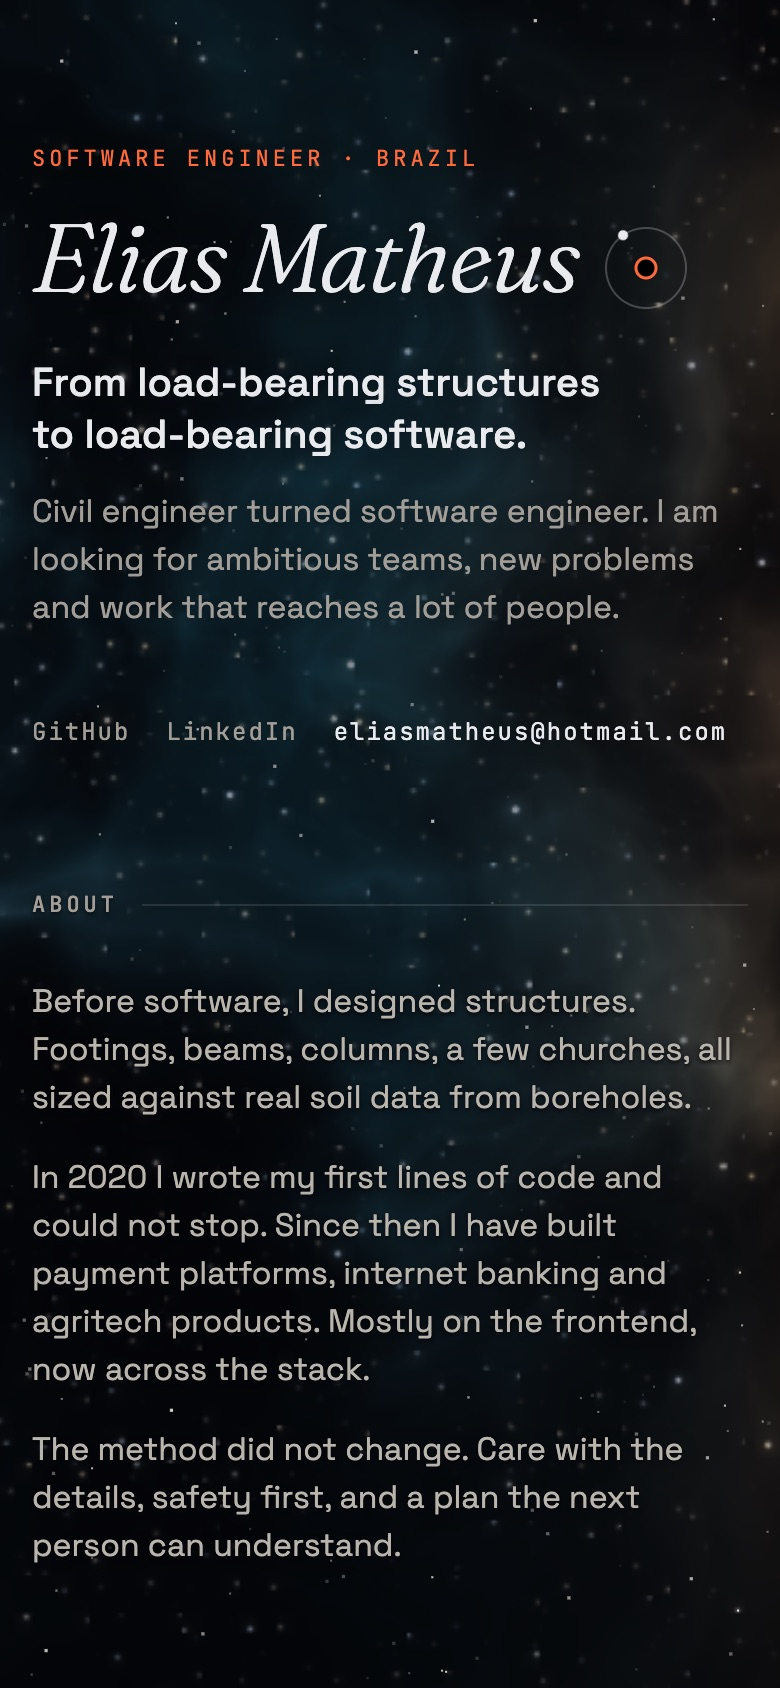
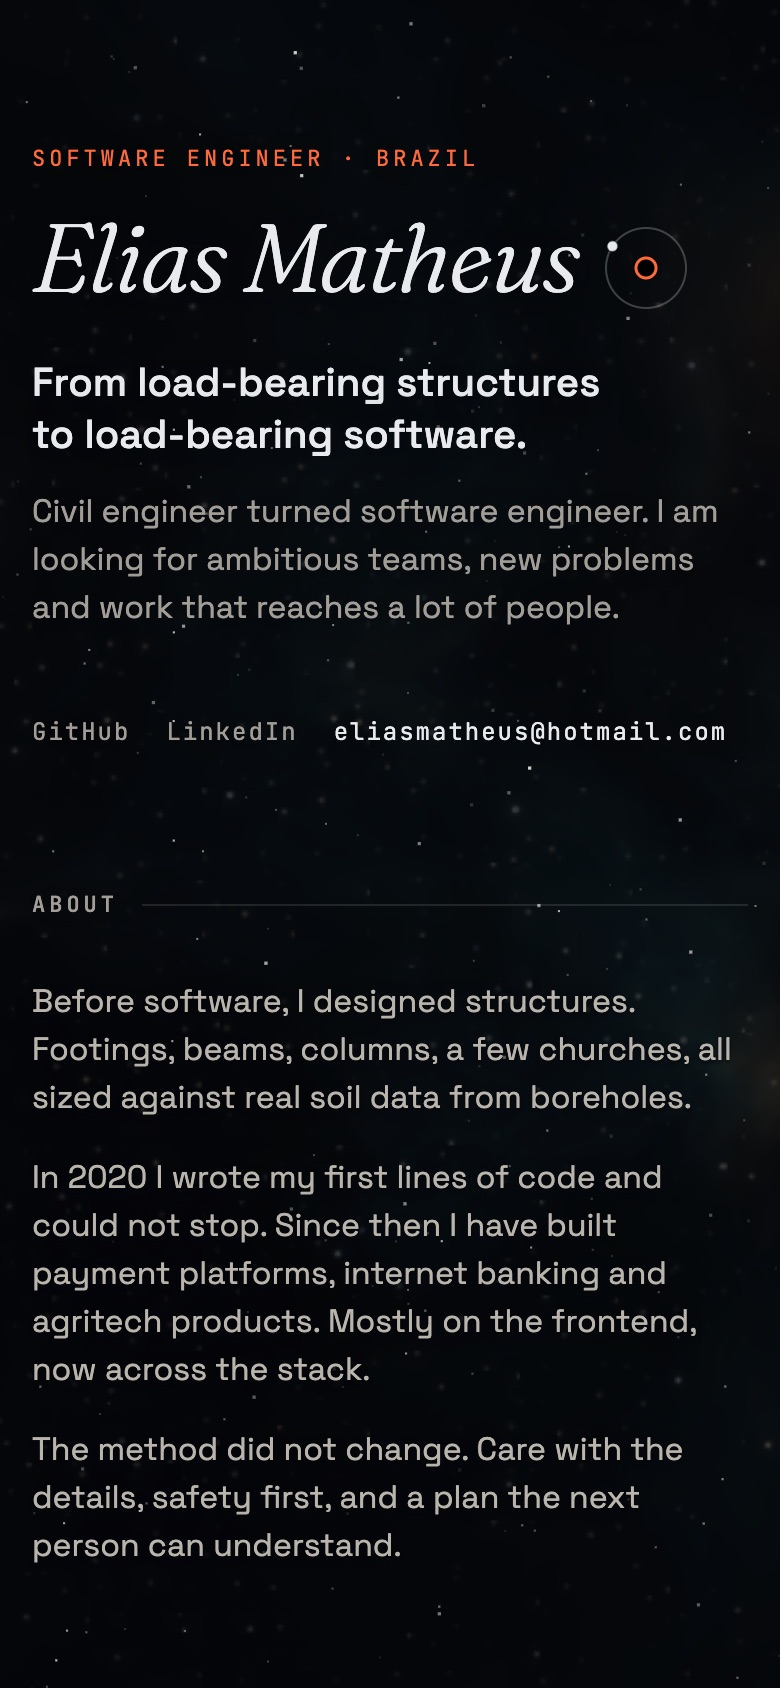
Landing: pointer light over a darker sky, old palette in Dune tones
Keeps the new nebula shapes and brings back what worked in the first
version: the sky rests dark and a light follows the mouse, fading over
2.5 s. The light is a masked, full-strength copy of the same painting.
The palette returns to black teal, muted teal, spice amber and sand.
On touch, a faint light wanders on its own.

diff --git a/src/landing/sky.ts b/src/landing/sky.ts
@@ -1,13 +1,17 @@
 // Decoration for the landing: a still nebula painted once, a view that pans across it as the
-// visitor moves through the page, a nearer layer of stars and the small black hole at the door.
+// visitor moves through the page, a light that follows the pointer, a nearer layer of stars and the small black hole at the door.
 // Everything here is optional; the page reads fine without it.
 import { paintNebula } from './nebula';
+import { fadeTrail, isIdle, lightMask, pushPoint, wanderer, type TrailPoint } from './trail';
 import { stepView, viewTarget, type View } from './view';
 
 /** The panorama is this many screens wide (matches the CSS width of the nebula canvas). */
 const PANORAMA = 1.7;
-/** Nebula opacity at rest; moving the view adds up to the rest. */
-const REST_OPACITY = 0.55;
+/** Nebula opacity at rest: a dark sky. Moving the view adds up to GLOW_OPACITY more. */
+const REST_OPACITY = 0.17;
+const GLOW_OPACITY = 0.23;
+/** On touch screens a faint light wanders on its own, one weak point every 120 ms. */
+const WANDER_STRENGTH = 0.12;
 
 interface Star {
   x: number;
@@ -33,13 +37,45 @@ function watchSection(ids: readonly string[], onChange: (id: string | null) => v
 export function startSky(): void {
   const stars = document.querySelector<HTMLCanvasElement>('[data-stars]');
   const nebula = document.querySelector<HTMLCanvasElement>('[data-nebula]');
+  const light = document.querySelector<HTMLCanvasElement>('[data-nebula-light]');
   const ring = document.querySelector<HTMLCanvasElement>('[data-ring]');
-  if (!stars || !nebula || !ring) return;
+  if (!stars || !nebula || !light || !ring) return;
 
   const reduce = window.matchMedia('(prefers-reduced-motion: reduce)').matches;
   const coarse = window.matchMedia('(pointer: coarse)').matches;
-  const painted = paintNebula(nebula, coarse ? 0.4 : 0.5);
-  if (painted) nebula.dataset['ready'] = '';
+  // The lit copy is the same painting at full strength, shown only around the pointer.
+  const paintBoth = (): boolean => {
+    if (!paintNebula(nebula, coarse ? 0.4 : 0.5)) return false;
+    light.width = nebula.width;
+    light.height = nebula.height;
+    light.getContext('2d')?.drawImage(nebula, 0, 0);
+    return true;
+  };
+  if (paintBoth()) {
+    nebula.dataset['ready'] = '';
+    light.dataset['ready'] = '';
+  }
+
+  // ---------- the light around the pointer ----------
+  const trail: TrailPoint[] = [];
+  let lastPush = 0;
+  window.addEventListener(
+    'pointermove',
+    (e) => {
+      if (e.pointerType !== 'mouse') return;
+      const now = performance.now();
+      const head = trail[0];
+      if (now - lastPush > 40 || !head) {
+        pushPoint(trail, { x: e.clientX, y: e.clientY, s: 1 });
+        lastPush = now;
+      } else {
+        head.x = e.clientX;
+        head.y = e.clientY;
+        head.s = 1;
+      }
+    },
+    { passive: true },
+  );
 
   // ---------- where we look ----------
   let section: string | null = null;
@@ -59,9 +95,15 @@ export function startSky(): void {
   }
   const panWidth = (): number => window.innerWidth * (PANORAMA - 1);
   function applyView(): void {
-    if (!nebula) return;
-    nebula.style.transform = `translate3d(${(-view.x * panWidth()).toFixed(1)}px, 0, 0)`;
-    nebula.style.setProperty('--glow', (REST_OPACITY + (1 - REST_OPACITY) * view.glow).toFixed(3));
+    if (!nebula || !light) return;
+    const pan = view.x * panWidth();
+    const move = `translate3d(${(-pan).toFixed(1)}px, 0, 0)`;
+    nebula.style.transform = move;
+    light.style.transform = move;
+    nebula.style.setProperty('--glow', (REST_OPACITY + GLOW_OPACITY * view.glow).toFixed(3));
+    const mask = lightMask(trail, pan);
+    light.style.maskImage = mask;
+    light.style.setProperty('-webkit-mask-image', mask);
   }
 
   // ---------- nearer stars, a little faster than the nebula ----------
@@ -159,7 +201,7 @@ export function startSky(): void {
   }
 
   const repaintNebula = (): void => {
-    paintNebula(nebula, coarse ? 0.4 : 0.5);
+    paintBoth();
     paint(performance.now());
   };
   // Phones resize on every toolbar show and hide; only a new width needs a new painting.
@@ -174,17 +216,31 @@ export function startSky(): void {
 
   if (reduce) {
     // A still sky: the view jumps between spots and is redrawn only when something changes.
+    const p = wanderer(0, window.innerWidth, window.innerHeight);
+    pushPoint(trail, { ...p, s: 0.5 });
     paint(0);
     window.addEventListener('scroll', () => paint(0), { passive: true });
     return;
   }
 
   let last = performance.now();
+  let time = 0;
+  let lastWander = 0;
   let raf = 0;
   const run = (now: number): void => {
-    const dt = Math.min(0.05, (now - last) / 1000);
+    const raw = (now - last) / 1000;
+    const dt = Math.min(0.05, raw);
     last = now;
     view = stepView(view, viewTarget(section, pointer), dt);
+    // The light fades on real time, even when frames are slow.
+    fadeTrail(trail, Math.min(0.5, raw));
+    time += dt;
+    // With a mouse the sky goes dark again at rest; on touch a faint light keeps wandering.
+    if (coarse && isIdle(trail, 0.2) && now - lastWander > 120) {
+      const p = wanderer(time, window.innerWidth, window.innerHeight);
+      pushPoint(trail, { ...p, s: WANDER_STRENGTH });
+      lastWander = now;
+    }
     paint(now);
     raf = requestAnimationFrame(run);
   };

diff --git a/src/landing/nebula.ts b/src/landing/nebula.ts
@@ -1,4 +1,5 @@
-// The nebula behind the landing: a wide, still painting of gas, dust lanes and star clusters,
+// The nebula behind the landing: a wide, still painting of gas, dust lanes and star clusters
+// in a Dune-like palette,
 // rendered once in WebGL. It never moves on its own; the page pans the view across it.
 
 const VERTEX = 'attribute vec2 a; void main(){ gl_Position = vec4(a, 0.0, 1.0); }';
@@ -31,7 +32,7 @@ vec3 stars(vec2 uv, float k, float bias){
   vec2 pos = vec2(hash(cell + 1.3), hash(cell + 7.1));
   float d = length(f - pos) * uRes.y / k; // distance in canvas pixels
   float b = pow(hash(cell + 3.7), 6.0);
-  vec3 tint = mix(vec3(0.75, 0.85, 1.0), vec3(1.0, 0.85, 0.65), hash(cell + 5.9));
+  vec3 tint = mix(vec3(0.8, 0.9, 0.95), vec3(1.0, 0.82, 0.6), hash(cell + 5.9));
   return tint * b * (exp(-d * d * 0.9) * 1.6 + exp(-d * 0.35) * 0.18);
 }
 
@@ -49,24 +50,26 @@ void main(){
   float wisps = ridged(uv * 2.8 + q * 1.8);
   float dens = band * smoothstep(0.25, 0.85, 0.55 * body + 0.6 * wisps * body);
 
-  // Cool on the left, warm on the right, mixed by the gas itself.
-  float warm = smoothstep(0.25, 0.85, x + 0.35 * (q.x - 0.5));
-  vec3 cool = mix(vec3(0.02, 0.10, 0.18), vec3(0.22, 0.70, 0.82), body);
-  vec3 hot = mix(vec3(0.20, 0.06, 0.04), vec3(0.98, 0.55, 0.24), body);
-  vec3 gas = mix(cool, hot, warm) * dens * 1.5;
-  gas += mix(vec3(0.6, 0.9, 1.0), vec3(1.0, 0.85, 0.6), warm) * pow(wisps, 5.0) * band * 0.35;
+  // Dune-like palette: black teal shadows, muted teal gas, spice amber, pale sand highlights.
+  vec3 deep = vec3(0.02, 0.06, 0.09), teal = vec3(0.08, 0.32, 0.36);
+  vec3 amber = vec3(0.86, 0.52, 0.2), sand = vec3(1.0, 0.84, 0.58), rust = vec3(0.36, 0.12, 0.05);
+  float spice = smoothstep(0.35, 0.8, q.x * body * 1.7 + 0.3 * (x - 0.5));
+  vec3 tint = mix(mix(deep, teal, smoothstep(0.25, 0.75, body)), amber, spice);
+  vec3 gas = tint * dens * (0.45 + 1.3 * pow(body, 1.4)) * 1.6;
+  gas += sand * pow(wisps, 5.0) * band * (0.15 + 0.4 * spice);
 
-  // Dark dust lanes cut through the glow.
+  // Dark dust lanes cut through the glow, rusty at their edges.
   float dust = smoothstep(0.5, 0.78, fbm(uv * 3.4 + q * 2.4 + 9.0));
-  gas *= 1.0 - 0.8 * dust * band;
+  gas = mix(gas, rust * dens, 0.35 * dust * band);
+  gas *= 1.0 - 0.75 * dust * band;
 
-  vec3 col = vec3(0.008, 0.010, 0.018) + gas;
+  vec3 col = vec3(0.006, 0.009, 0.012) + gas;
   // Stars: a fine field everywhere, denser and brighter clusters inside the gas.
   col += stars(uv, 90.0, 0.55) * 0.5;
   col += stars(uv + 3.1, 38.0, 0.7 - 0.35 * band) * (0.6 + band);
   col += stars(uv + 7.7, 14.0, 0.85 - 0.2 * band) * 1.2;
   // Soft glow of unresolved stars in the densest parts.
-  col += vec3(0.9, 0.85, 1.0) * pow(dens, 3.0) * 0.08;
+  col += sand * pow(dens, 3.0) * 0.08;
 
   gl_FragColor = vec4(col, 1.0);
 }`;

diff --git a/src/landing/trail.ts b/src/landing/trail.ts
@@ -1,0 +1,55 @@
+// The light that follows the pointer over the nebula: recent points, each fading out on its own.
+
+export interface TrailPoint {
+  /** CSS pixels from the left of the viewport. */
+  x: number;
+  /** CSS pixels from the top of the viewport. */
+  y: number;
+  /** Strength, 1 when fresh, 0 when gone. */
+  s: number;
+}
+
+export const TRAIL_SIZE = 10;
+/** A fresh point fades out in 2.5 s. */
+export const FADE_PER_SECOND = 0.4;
+/** Radius of the light around each point, in CSS pixels. */
+export const LIGHT_RADIUS = 300;
+
+/** Adds a point at the head of the trail and drops the oldest past the limit. */
+export function pushPoint(trail: TrailPoint[], point: TrailPoint, size = TRAIL_SIZE): void {
+  trail.unshift(point);
+  if (trail.length > size) trail.length = size;
+}
+
+export function fadeTrail(trail: TrailPoint[], dt: number): void {
+  for (const p of trail) p.s = Math.max(0, p.s - dt * FADE_PER_SECOND);
+}
+
+/** True when nothing in the trail is still visible, so the slow wanderer takes over. */
+export function isIdle(trail: readonly TrailPoint[], threshold = 0.05): boolean {
+  return trail.every((p) => p.s < threshold);
+}
+
+/** Where the wanderer is at time t (seconds): a slow loop around the middle of the screen. */
+export function wanderer(t: number, width: number, height: number): { x: number; y: number } {
+  const k = t * 0.12;
+  return {
+    x: width * (0.55 + 0.3 * Math.sin(k * 1.3)),
+    y: height * (0.45 + 0.3 * Math.sin(k * 0.9 + 1)),
+  };
+}
+
+/**
+ * CSS mask for the lit copy of the nebula: one soft spot per visible point.
+ * `offsetX` moves screen coordinates into the panned canvas (the current pan, in pixels).
+ */
+export function lightMask(trail: readonly TrailPoint[], offsetX: number): string {
+  const spots = trail
+    .filter((p) => p.s > 0.01)
+    .map((p) => {
+      const a = p.s.toFixed(3);
+      const half = (p.s * 0.45).toFixed(3);
+      return `radial-gradient(circle ${LIGHT_RADIUS}px at ${(p.x + offsetX).toFixed(1)}px ${p.y.toFixed(1)}px, rgb(0 0 0 / ${a}), rgb(0 0 0 / ${half}) 40%, transparent)`;
+    });
+  return spots.length ? spots.join(', ') : 'linear-gradient(transparent, transparent)';
+}

diff --git a/src/landing/trail.test.ts b/src/landing/trail.test.ts
@@ -1,0 +1,68 @@
+import { describe, expect, it } from 'vitest';
+import {
+  fadeTrail,
+  FADE_PER_SECOND,
+  isIdle,
+  lightMask,
+  pushPoint,
+  TRAIL_SIZE,
+  wanderer,
+  type TrailPoint,
+} from './trail';
+
+describe('pushPoint', () => {
+  it('puts the newest point first and keeps the trail bounded', () => {
+    const trail: TrailPoint[] = [];
+    for (let i = 0; i < TRAIL_SIZE + 5; i++) pushPoint(trail, { x: i, y: 0, s: 1 });
+    expect(trail).toHaveLength(TRAIL_SIZE);
+    expect(trail[0]?.x).toBe(TRAIL_SIZE + 4);
+  });
+});
+
+describe('fadeTrail', () => {
+  it('fades a fresh point out in 1 / FADE_PER_SECOND seconds and never below zero', () => {
+    const trail = [{ x: 0, y: 0, s: 1 }];
+    fadeTrail(trail, 1);
+    expect(trail[0]?.s).toBeCloseTo(1 - FADE_PER_SECOND);
+    fadeTrail(trail, 10);
+    expect(trail[0]?.s).toBe(0);
+  });
+});
+
+describe('isIdle', () => {
+  it('is idle when empty or when every point has faded', () => {
+    expect(isIdle([])).toBe(true);
+    expect(isIdle([{ x: 0, y: 0, s: 0.01 }])).toBe(true);
+    expect(isIdle([{ x: 0, y: 0, s: 0.5 }])).toBe(false);
+  });
+});
+
+describe('wanderer', () => {
+  it('stays inside the screen', () => {
+    for (let t = 0; t < 600; t += 7) {
+      const { x, y } = wanderer(t, 390, 844);
+      expect(x).toBeGreaterThanOrEqual(0);
+      expect(x).toBeLessThanOrEqual(390);
+      expect(y).toBeGreaterThanOrEqual(0);
+      expect(y).toBeLessThanOrEqual(844);
+    }
+  });
+});
+
+describe('lightMask', () => {
+  it('lights one spot per visible point, shifted into the panned canvas', () => {
+    const mask = lightMask(
+      [
+        { x: 100, y: 50, s: 1 },
+        { x: 0, y: 0, s: 0 },
+      ],
+      400,
+    );
+    expect(mask.match(/radial-gradient/g)).toHaveLength(1);
+    expect(mask).toContain('at 500.0px 50.0px');
+  });
+
+  it('masks everything out when the trail is gone', () => {
+    expect(lightMask([], 0)).not.toContain('radial-gradient');
+  });
+});

diff --git a/docs/cenas/landing.md b/docs/cenas/landing.md
@@ -15,8 +15,10 @@ Quem está com pressa resolve tudo aqui em 10 segundos: quem é, o que faz, onde
 ## Tempero
 
 - Céu escuro com estrelas discretas e leve paralaxe.
-- Nebulosa no estilo da árvore de habilidades do Skyrim (homenagem só no estilo): uma pintura larga e parada do céu (gás azul-esverdeado à esquerda, ferrugem e âmbar à direita, faixas de poeira escura, aglomerados de estrelas), 1,7 tela de largura, pintada uma vez em WebGL. Ela não se mexe; o que muda é para onde olhamos. Cada parte da página tem um ponto no céu (About, Experience, Projects, a porta). Ao rolar até outra parte, a vista desliza até lá e a nebulosa brilha durante o movimento, apagando de volta quando para. O mouse inclina a vista de leve. Uma camada de estrelas mais próxima anda um pouco mais rápido (paralaxe).
-- (Substituiu a primeira versão, em que o cursor revelava a nebulosa: parecia arte abstrata, não nebulosa.)
+- Nebulosa no estilo da árvore de habilidades do Skyrim (homenagem só no estilo): uma pintura larga e parada do céu (faixa de gás com filamentos, faixas de poeira escura, aglomerados de estrelas), 1,7 tela de largura, pintada uma vez em WebGL. Paleta da primeira versão puxada para o Duna: sombras em preto esverdeado, gás verde-azulado apagado, laranja de especiaria e realces cor de areia.
+- O céu fica escuro (17% de opacidade em repouso). A luz em volta do mouse acende a nebulosa por inteiro, com um rastro que se apaga em ~2,5 s. Sem mouse (celular), uma luz fraca passeia sozinha.
+- A nebulosa não se mexe; o que muda é para onde olhamos. Cada parte da página tem um ponto no céu (About, Experience, Projects, a porta). Ao rolar até outra parte, a vista desliza até lá e o céu clareia um pouco durante o movimento. O mouse inclina a vista de leve. Uma camada de estrelas mais próxima anda um pouco mais rápido (paralaxe).
+- Histórico: a primeira versão (gás revelado só pelo cursor) parecia arte abstrata; a segunda (nebulosa parada e clara, cores frias e quentes separadas) perdeu o contraste e a paleta antiga. Esta junta os desenhos da segunda com a luz e a paleta da primeira.
 - Um satélite pequeno orbitando ao lado do nome.
 - Itens da lista se destacam ao passar o mouse (os outros esmaecem).
 
@@ -35,10 +37,10 @@ Quem está com pressa resolve tudo aqui em 10 segundos: quem é, o que faz, onde
 
 ## Implementação
 
-- Página: `src/pages/index.astro`. Conteúdo: `src/content/landing.ts` + `src/content/work.ts`. Céu: `src/landing/` (`sky.ts`, `nebula.ts`, `view.ts` com testes).
+- Página: `src/pages/index.astro`. Conteúdo: `src/content/landing.ts` + `src/content/work.ts`. Céu: `src/landing/` (`sky.ts`, `nebula.ts`, `view.ts` e `trail.ts` com testes).
 - A jornada mudou para `/journey`. `/work` redireciona para `/` (308 na Vercel via `vercel.json`, meta refresh no build estático).
 - O céu só liga na primeira interação (mouse, toque, scroll, tecla) ou 3 s depois do load, para não pesar no LCP nem no TBT.
-- Vista: `src/landing/view.ts` (pontos por seção, inclinação do mouse, suavização e brilho, com testes). A nebulosa é repintada só quando muda a largura da janela. Em repouso fica a 55% de opacidade; o movimento leva até 100%. O texto do registro tem sombra escura.
+- Vista: `src/landing/view.ts` (pontos por seção, inclinação do mouse, suavização e brilho, com testes). Luz: `src/landing/trail.ts` (rastro, luz que passeia e a máscara CSS de uma cópia acesa da pintura, com testes). A nebulosa é repintada só quando muda a largura da janela. O rastro se apaga pelo tempo real, mesmo com quadros lentos. O texto do registro tem sombra escura.
 - Reduced motion: a vista pula direto para o ponto da seção, sem deslizar nem brilhar.
 - O "About" está em rascunho com fatos que já estão no site (estruturas, igrejas, sondagens, 2020, pagamentos, internet banking, agritech). Revisar com o Elias.
 

diff --git a/docs/plano.md b/docs/plano.md
@@ -33,7 +33,7 @@ Cada fase termina com deploy funcionando. Uma cena só conta como pronta quando 
 
 Protótipos em `reference/prototype/` (`landing-orbit.html`, `black-hole.html`).
 
-- [x] Landing TL;DR "Orbit" em `/`, com a nebulosa parada no céu e a vista deslizando entre as seções (estilo skill tree do Skyrim), o conteúdo da `/work` e a porta para a jornada no fim. `/work` passa a redirecionar para ela. A jornada atual foi para `/journey` até o Horizon existir.
+- [x] Landing TL;DR "Orbit" em `/`, com a nebulosa parada no céu, a luz do cursor e a vista deslizando entre as seções (estilo skill tree do Skyrim, paleta de Duna), o conteúdo da `/work` e a porta para a jornada no fim. `/work` passa a redirecionar para ela. A jornada atual foi para `/journey` até o Horizon existir.
 - [ ] Horizon: wormhole na chegada, buraco negro em WebGL (shader próprio, sem three.js) no enquadramento Off-axis, lens flare no cursor e queda em primeira pessoa. Fallback sem WebGL. (Planeta no cursor em espera.)
 - [x] Protótipo do The fall (`reference/prototype/the-fall.html`).
 - [ ] Cena The fall no site. A câmera não pode atravessar vigas (no protótipo atravessa).
